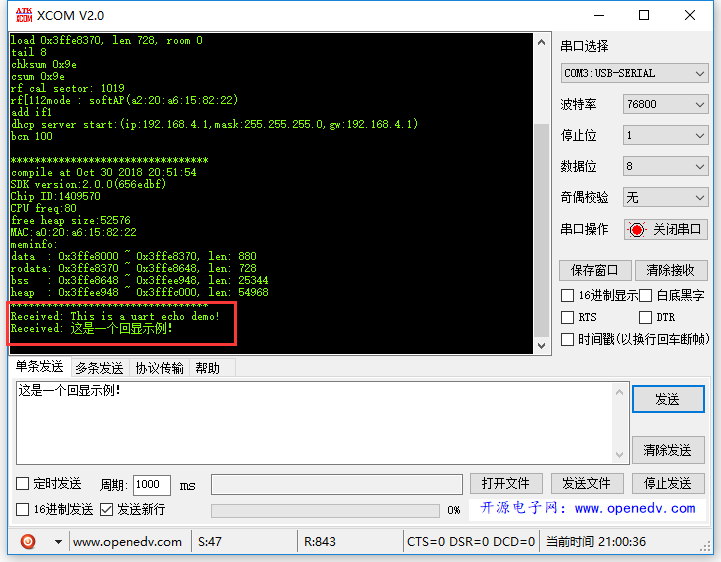
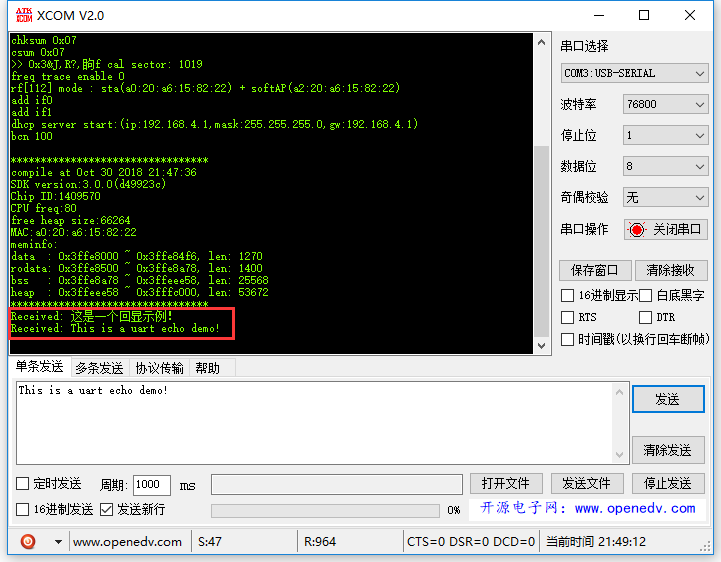
update uart_echo_app & make it can use in sdk-v3.0.0

diff --git a/H07-uart_echo_app/user/user_main.c b/H07-uart_echo_app/user/user_main.c
@@ -28,6 +28,74 @@
 
 #include "driver/uart.h"
 
+//**********************************************************************************/
+// SDK v3.0
+
+#if ((SPI_FLASH_SIZE_MAP == 0) || (SPI_FLASH_SIZE_MAP == 1))
+#error "The flash map is not supported"
+#elif (SPI_FLASH_SIZE_MAP == 2)
+#define SYSTEM_PARTITION_OTA_SIZE							0x6A000
+#define SYSTEM_PARTITION_OTA_2_ADDR							0x81000
+#define SYSTEM_PARTITION_RF_CAL_ADDR						0xfb000
+#define SYSTEM_PARTITION_PHY_DATA_ADDR						0xfc000
+#define SYSTEM_PARTITION_SYSTEM_PARAMETER_ADDR				0xfd000
+#define SYSTEM_PARTITION_CUSTOMER_PRIV_PARAM_ADDR           0x7c000
+#elif (SPI_FLASH_SIZE_MAP == 3)
+#define SYSTEM_PARTITION_OTA_SIZE							0x6A000
+#define SYSTEM_PARTITION_OTA_2_ADDR							0x81000
+#define SYSTEM_PARTITION_RF_CAL_ADDR						0x1fb000
+#define SYSTEM_PARTITION_PHY_DATA_ADDR						0x1fc000
+#define SYSTEM_PARTITION_SYSTEM_PARAMETER_ADDR				0x1fd000
+#define SYSTEM_PARTITION_CUSTOMER_PRIV_PARAM_ADDR           0x7c000
+#elif (SPI_FLASH_SIZE_MAP == 4)
+#define SYSTEM_PARTITION_OTA_SIZE							0x6A000
+#define SYSTEM_PARTITION_OTA_2_ADDR							0x81000
+#define SYSTEM_PARTITION_RF_CAL_ADDR						0x3fb000
+#define SYSTEM_PARTITION_PHY_DATA_ADDR						0x3fc000
+#define SYSTEM_PARTITION_SYSTEM_PARAMETER_ADDR				0x3fd000
+#define SYSTEM_PARTITION_CUSTOMER_PRIV_PARAM_ADDR           0x7c000
+#elif (SPI_FLASH_SIZE_MAP == 5)
+#define SYSTEM_PARTITION_OTA_SIZE							0x6A000
+#define SYSTEM_PARTITION_OTA_2_ADDR							0x101000
+#define SYSTEM_PARTITION_RF_CAL_ADDR						0x1fb000
+#define SYSTEM_PARTITION_PHY_DATA_ADDR						0x1fc000
+#define SYSTEM_PARTITION_SYSTEM_PARAMETER_ADDR				0x1fd000
+#define SYSTEM_PARTITION_CUSTOMER_PRIV_PARAM_ADDR           0xfc000
+#elif (SPI_FLASH_SIZE_MAP == 6)
+#define SYSTEM_PARTITION_OTA_SIZE							0x6A000
+#define SYSTEM_PARTITION_OTA_2_ADDR							0x101000
+#define SYSTEM_PARTITION_RF_CAL_ADDR						0x3fb000
+#define SYSTEM_PARTITION_PHY_DATA_ADDR						0x3fc000
+#define SYSTEM_PARTITION_SYSTEM_PARAMETER_ADDR				0x3fd000
+#define SYSTEM_PARTITION_CUSTOMER_PRIV_PARAM_ADDR           0xfc000
+#else
+#error "The flash map is not supported"
+#endif
+
+#define SYSTEM_PARTITION_CUSTOMER_PRIV_PARAM                SYSTEM_PARTITION_CUSTOMER_BEGIN
+
+uint32 priv_param_start_sec;
+
+static const partition_item_t at_partition_table[] = {
+    { SYSTEM_PARTITION_BOOTLOADER, 						0x0, 												0x1000},
+    { SYSTEM_PARTITION_OTA_1,   						0x1000, 											SYSTEM_PARTITION_OTA_SIZE},
+    { SYSTEM_PARTITION_OTA_2,   						SYSTEM_PARTITION_OTA_2_ADDR, 						SYSTEM_PARTITION_OTA_SIZE},
+    { SYSTEM_PARTITION_RF_CAL,  						SYSTEM_PARTITION_RF_CAL_ADDR, 						0x1000},
+    { SYSTEM_PARTITION_PHY_DATA, 						SYSTEM_PARTITION_PHY_DATA_ADDR, 					0x1000},
+    { SYSTEM_PARTITION_SYSTEM_PARAMETER, 				SYSTEM_PARTITION_SYSTEM_PARAMETER_ADDR, 			0x3000},
+    { SYSTEM_PARTITION_CUSTOMER_PRIV_PARAM,             SYSTEM_PARTITION_CUSTOMER_PRIV_PARAM_ADDR,          0x1000},
+};
+
+void ICACHE_FLASH_ATTR user_pre_init(void)
+{
+    if(!system_partition_table_regist(at_partition_table, sizeof(at_partition_table)/sizeof(at_partition_table[0]),SPI_FLASH_SIZE_MAP)) {
+		os_printf("system_partition_table_regist fail\r\n");
+		while(1);
+	}
+}
+
+//**********************************************************************************/
+
 /******************************************************************************
  * FunctionName : user_rf_cal_sector_set
  * Description  : SDK just reversed 4 sectors, used for rf init data and paramters.
